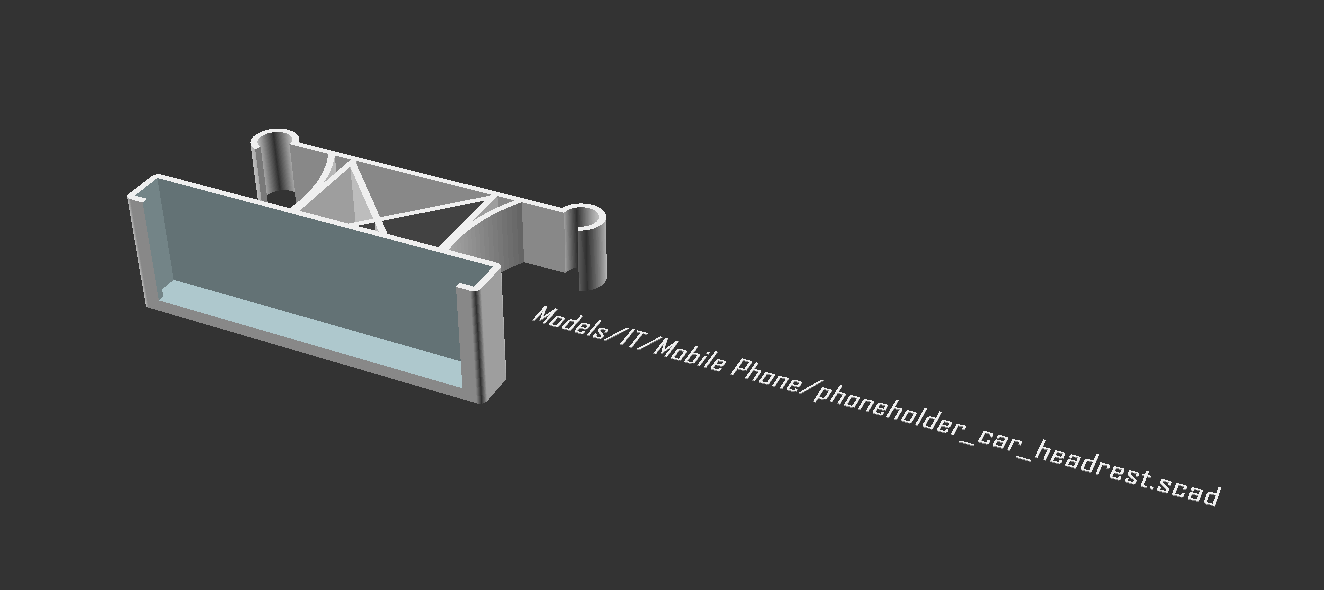
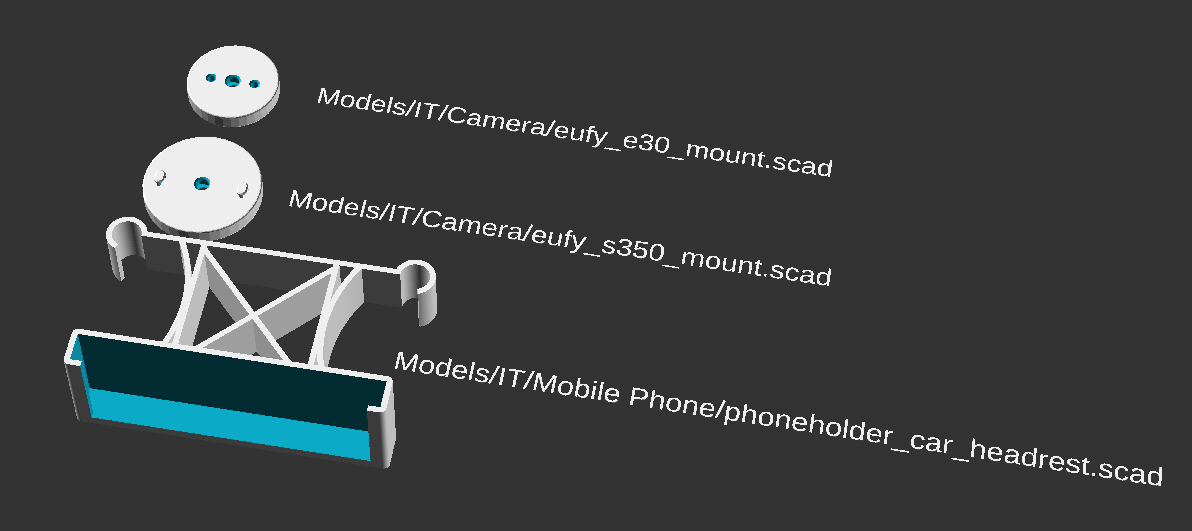
Add qwixbox and regenerate example images

Changed region(s): [[0.031, 0.0904, 0.9933, 0.904], [0.2794, 0.1808, 0.7139, 0.3315], [0.5587, 0.4821, 0.7139, 0.5424]]

diff --git a/README.md b/README.md
@@ -13,6 +13,7 @@ The used folder structure is an attempt to quickly locate a specific script by u
 | File | Description |
 | --- | --- |
 | `cardbox.scad` | Parameterised box to store playing cards. Useful features are multiple designs, configurable sections and ability to add text. |
+| `qwixxbox.scad` | Parameterised box to store scorecards and dice for a popular dice-game. |
 
 ### Home/Kitchen
 | File | Description |
